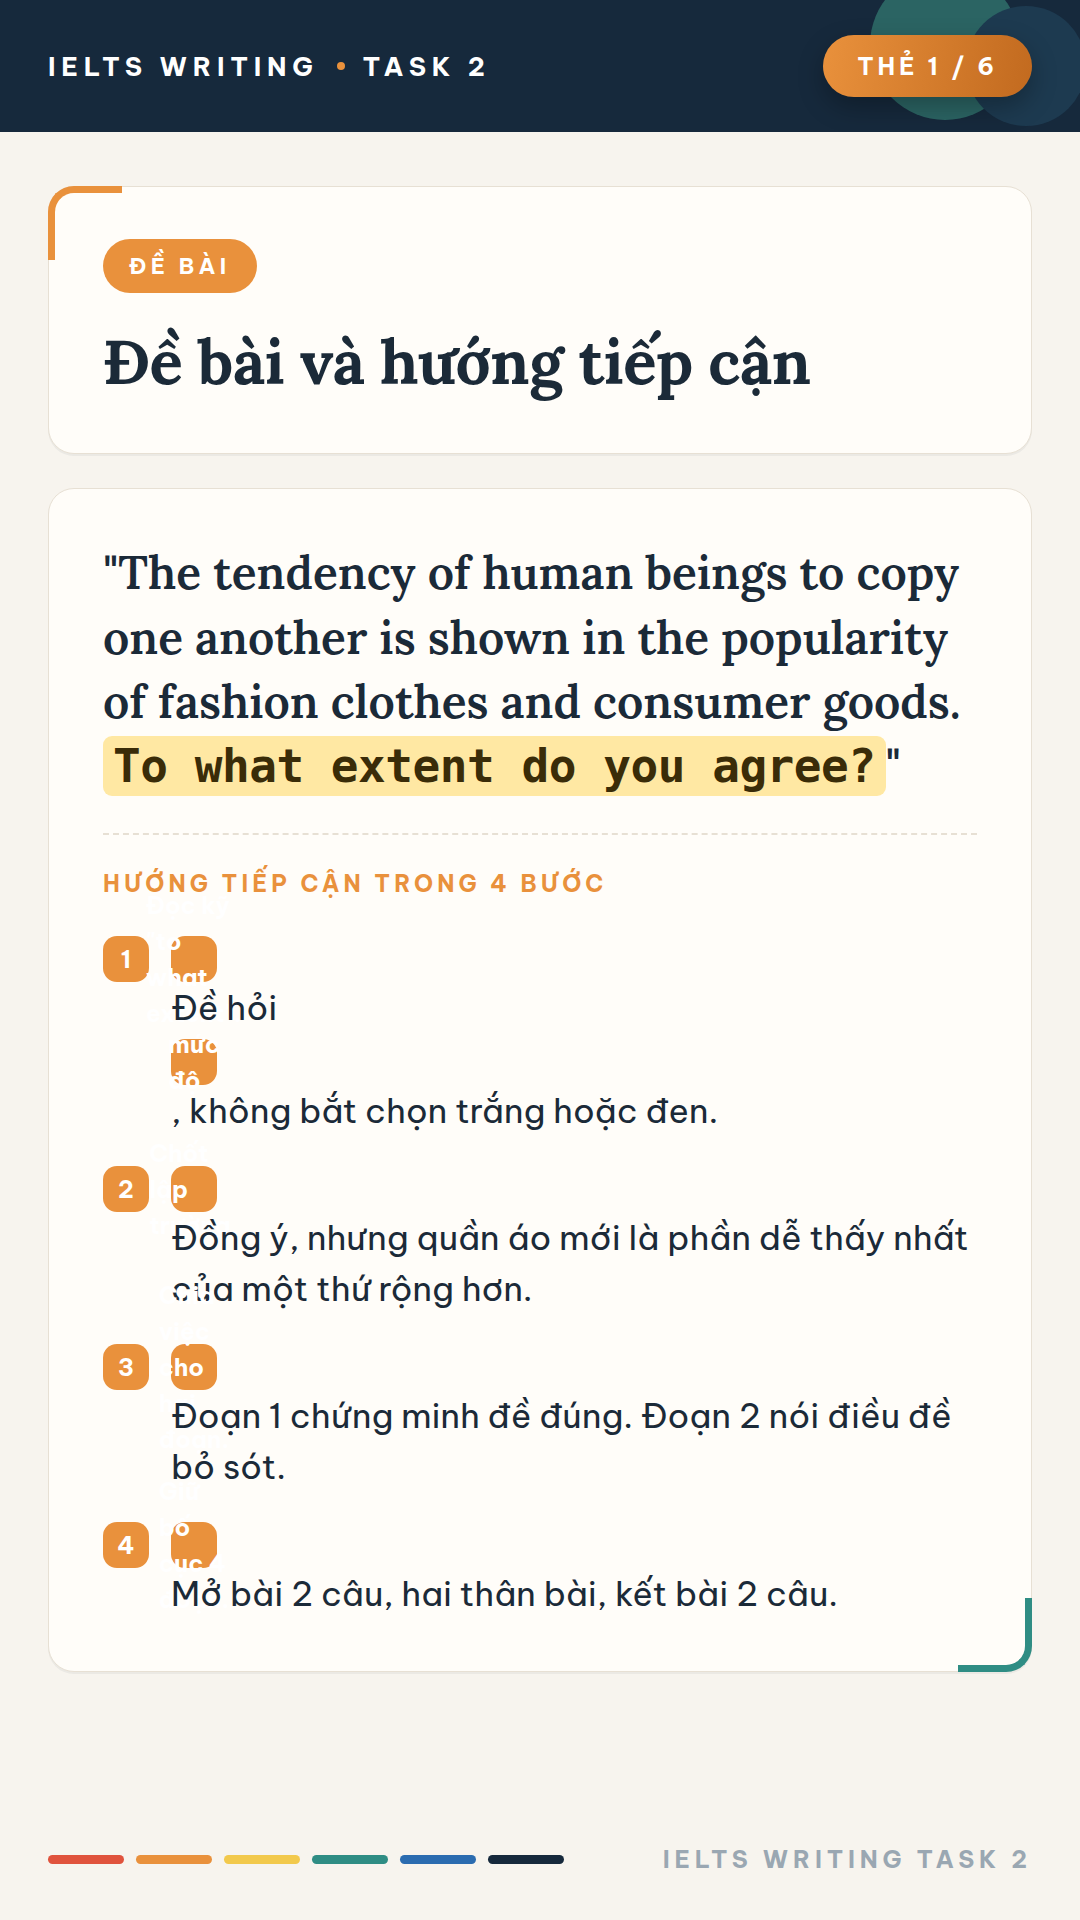
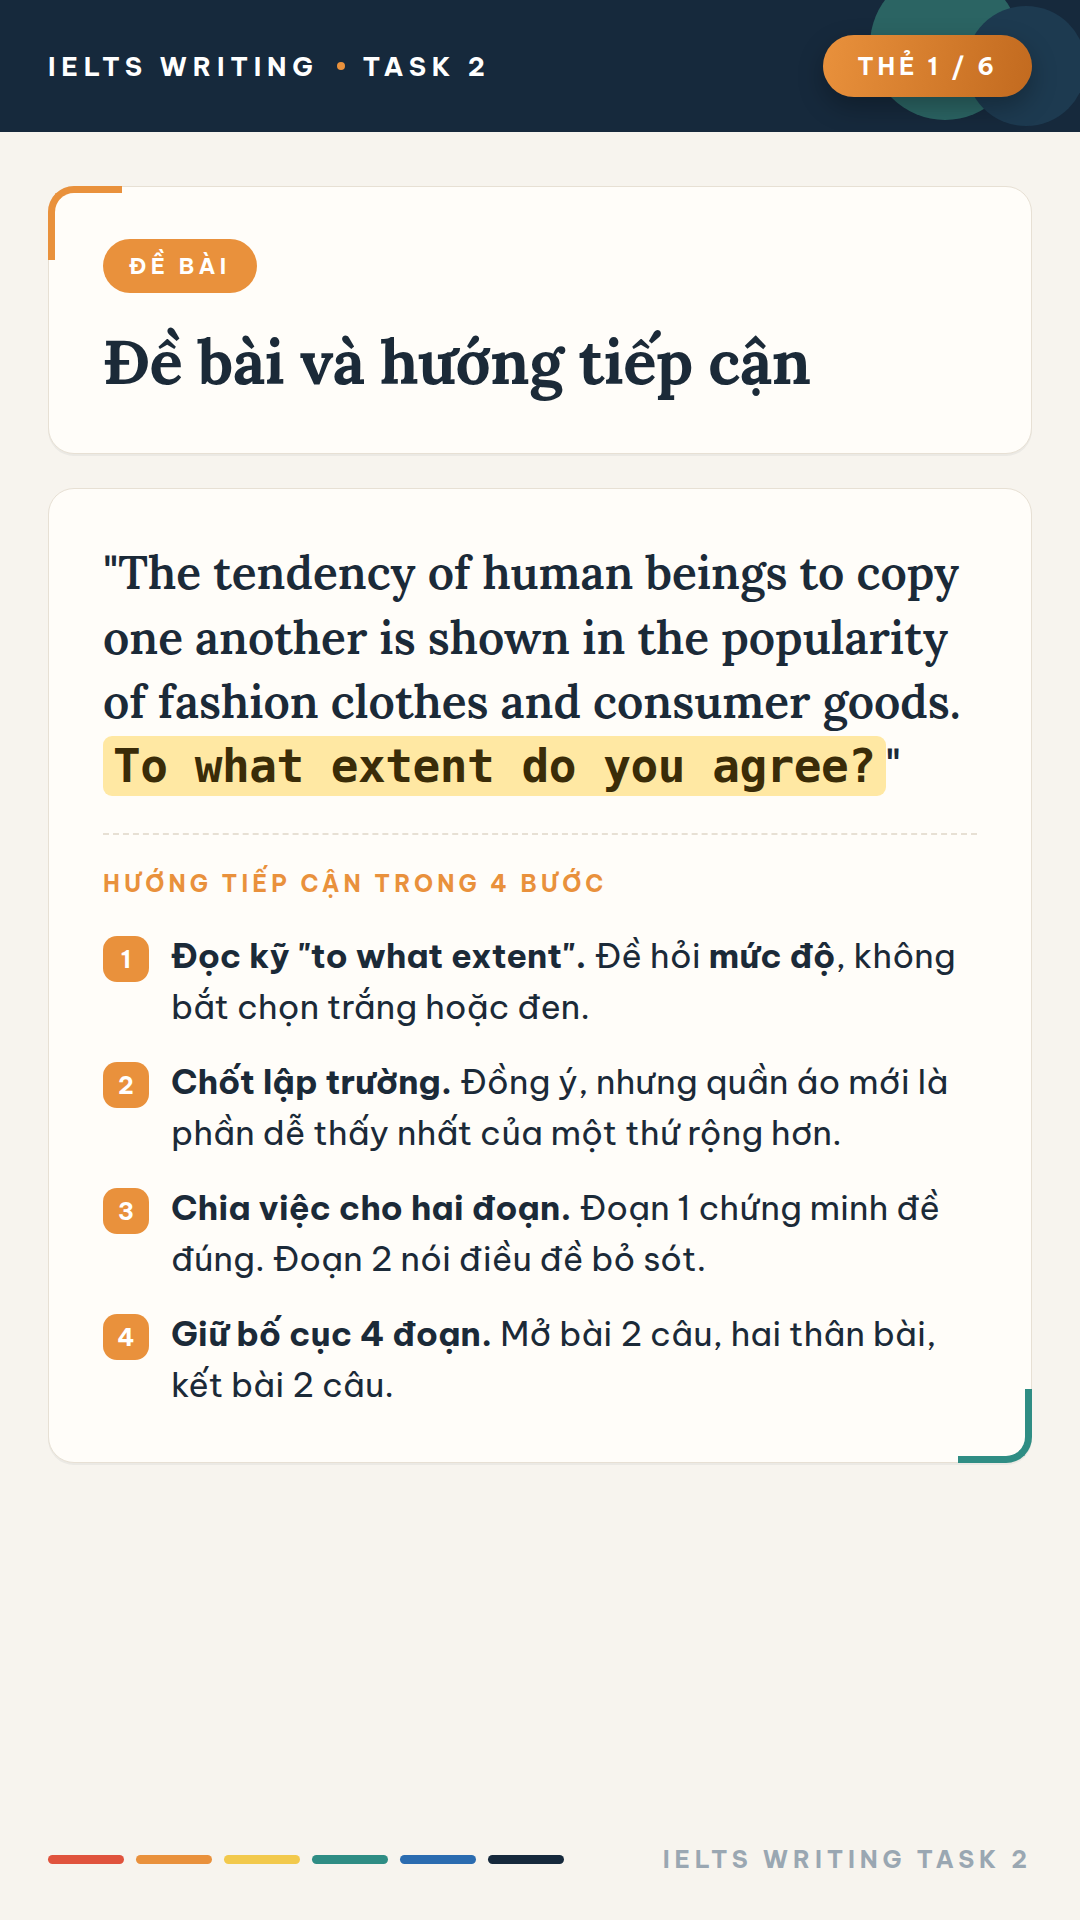
Sửa lỗi chữ in đậm bị đè trong bullet có số thứ tự
Selector ul.steps li b ăn luôn thẻ <b> nằm trong câu, khiến chữ in đậm
bị ép vào ô số 46px và đè lên nhau. Thu hẹp về con trực tiếp (li > b)
và trả style bình thường cho <b> bên trong span.

Claude-Session: https://claude.ai/code/session_019WkSSXiXh5hw7J6iFgTzZU

diff --git a/tiktok/cards.css b/tiktok/cards.css
@@ -77,7 +77,7 @@
 
   ul.steps{list-style:none;margin-top:32px;display:flex;flex-direction:column;gap:24px}
   ul.steps li{display:flex;gap:22px;font-size:34px;line-height:1.5;color:var(--ink)}
-  ul.steps li b{
+  ul.steps li > b{
     flex:0 0 auto;width:46px;height:46px;border-radius:14px;background:var(--ac);color:#fff;
     display:flex;align-items:center;justify-content:center;font-size:24px;font-weight:800;margin-top:6px;
   }
@@ -164,7 +164,7 @@
 
 .cta{list-style:none;margin-top:52px;display:flex;flex-direction:column;gap:26px}
 .cta li{display:flex;gap:22px;align-items:flex-start;font-size:34px;line-height:1.45;color:#cfdae3}
-.cta li b{
+.cta li > b{
   flex:0 0 auto;width:50px;height:50px;border-radius:15px;background:#ffb27a;color:#16293c;
   display:flex;align-items:center;justify-content:center;font-size:26px;font-weight:800;
 }
@@ -197,3 +197,9 @@
 .card--tight .note p{font-size:29px}
 .card--tight .vrow{gap:17px}
 .card--tight .vrow div{gap:5px}
+
+/* chữ in đậm bên trong câu: không phải ô số thứ tự */
+ul.steps li span b,ul.dots li span b,.cta li span b{
+  all:unset;font-weight:700;color:var(--ink);
+}
+.cta li span b{color:#fff}
